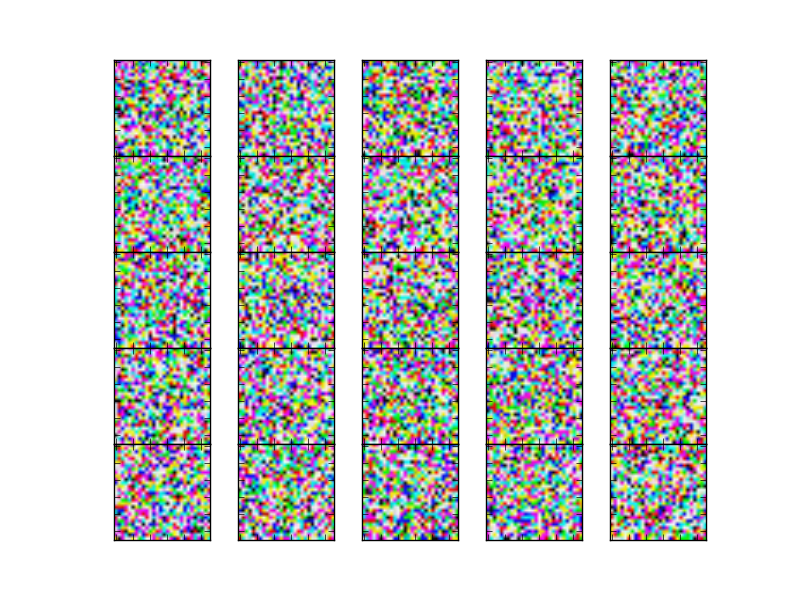
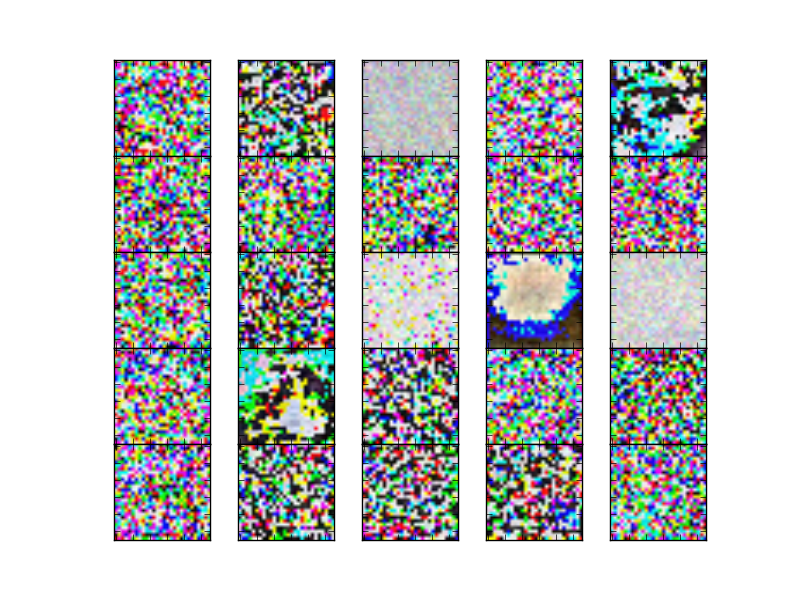
implemented varying learning rate

diff --git a/glyph/train.py b/glyph/train.py
@@ -95,6 +95,7 @@ def createSDA(info,trainset):
     """
     
     def trainer(data):
+        import sys
         preLearningRates = modelInfo["preLearningRates"]
         print "training dataShape", data.get_value(borrow=True).shape
         if visualize:
@@ -105,15 +106,29 @@ def createSDA(info,trainset):
         preTrainer = list(model.pretrainingFunctions(data,batchSize=batchSize))
         assert len(corruptionLevels) == len(preTrainer) , "given corruption levels do not correspond to the layers!!!"
         for i,(trainer,corruptionLevel,preLearningRate) in enumerate(zip(preTrainer,corruptionLevels,preLearningRates)):
-            for epoch in xrange(modelInfo["pretrainingEpochs"][i]):
-                print 'Pre-training layer %i, epoch %d start with learning rate of %f' % (i,epoch,preLearningRate)
-                trainScores = [trainer(batchIndex,corruptionLevel,preLearningRate) for batchIndex in xrange(data.get_value(borrow=True).shape[0]/batchSize)]
-                print 'Pre-training layer %i, epoch %d, cost ' % (i, epoch),numpy.mean(trainScores)
+            learningRate = preLearningRate
+            record = [sys.float_info.max]
+            epoch = 0
+            while True:
+                print 'Pre-training layer %i, epoch %d start with learning rate of %f' % (i,epoch,learningRate)
+                trainScores = [trainer(batchIndex,corruptionLevel,learningRate) for batchIndex in xrange(data.get_value(borrow=True).shape[0]/batchSize)]
+                score = numpy.mean(trainScores)
+                print 'Pre-training layer %i, epoch %d, cost ' % (i, epoch),numpy.mean(score)
                 if visualize:
                     for name,img in visualize.createSdaImages(model,trainset.get_value(borrow=True)):
                         dst = info["dst"].replace("pkl","")+"/layer%depoch%d/" % (i,epoch) + name
                         ensureSaveImage(img,dst)
-
+                diff = numpy.mean(record) - score
+                if  record[-1] - score < 0 or diff < 1:
+                    if learningRate > 0.001:
+                        learningRate *= 0.5
+                    else:
+                        print "training done"
+                        break
+                record.insert(0,score)
+                record = record[:5]
+                epoch += 1
+                
 
     return model,trainer
     

diff --git a/glyph/experiment.py b/glyph/experiment.py
@@ -34,13 +34,13 @@ def modelToCompressor(info,model):
     if info["model"]["kind"] == "sda" :
         return list(visualize.genCompressors(model))[-1]
 
-def visualizeModel(info,model):
+def visualizeModel(info,model,path):
     if info["model"]["kind"] == "pca":
         print "no visualization for PCA"
     if info["model"]["kind"] == "sda":
         nChannel = 3 if len(info["dataSet"]["shape"]) == 3 else 1
         for name,fig in visualize.sdaLayerImages2(model,nChannel):
-            fig.savefig(resultPath+"/"+name)
+            fig.savefig(path+"/"+name)
 
 def experimentCase(paramPath,resultPath,useCache = True):
     print "experiment param:",paramPath
@@ -80,7 +80,7 @@ def experimentCase(paramPath,resultPath,useCache = True):
     #score = metrics.silhouette_score(compressed, clustering.applyDBSCAN(compressed), metric='euclidean')
     #util.writeFileStr(resultPath+"/score.txt",str(score))
     print "visualize layers"
-    visualizeModel(info,model)
+    visualizeModel(info,model,resultPath)
     print "experiment case done!"
 
 if __name__ == '__main__':
